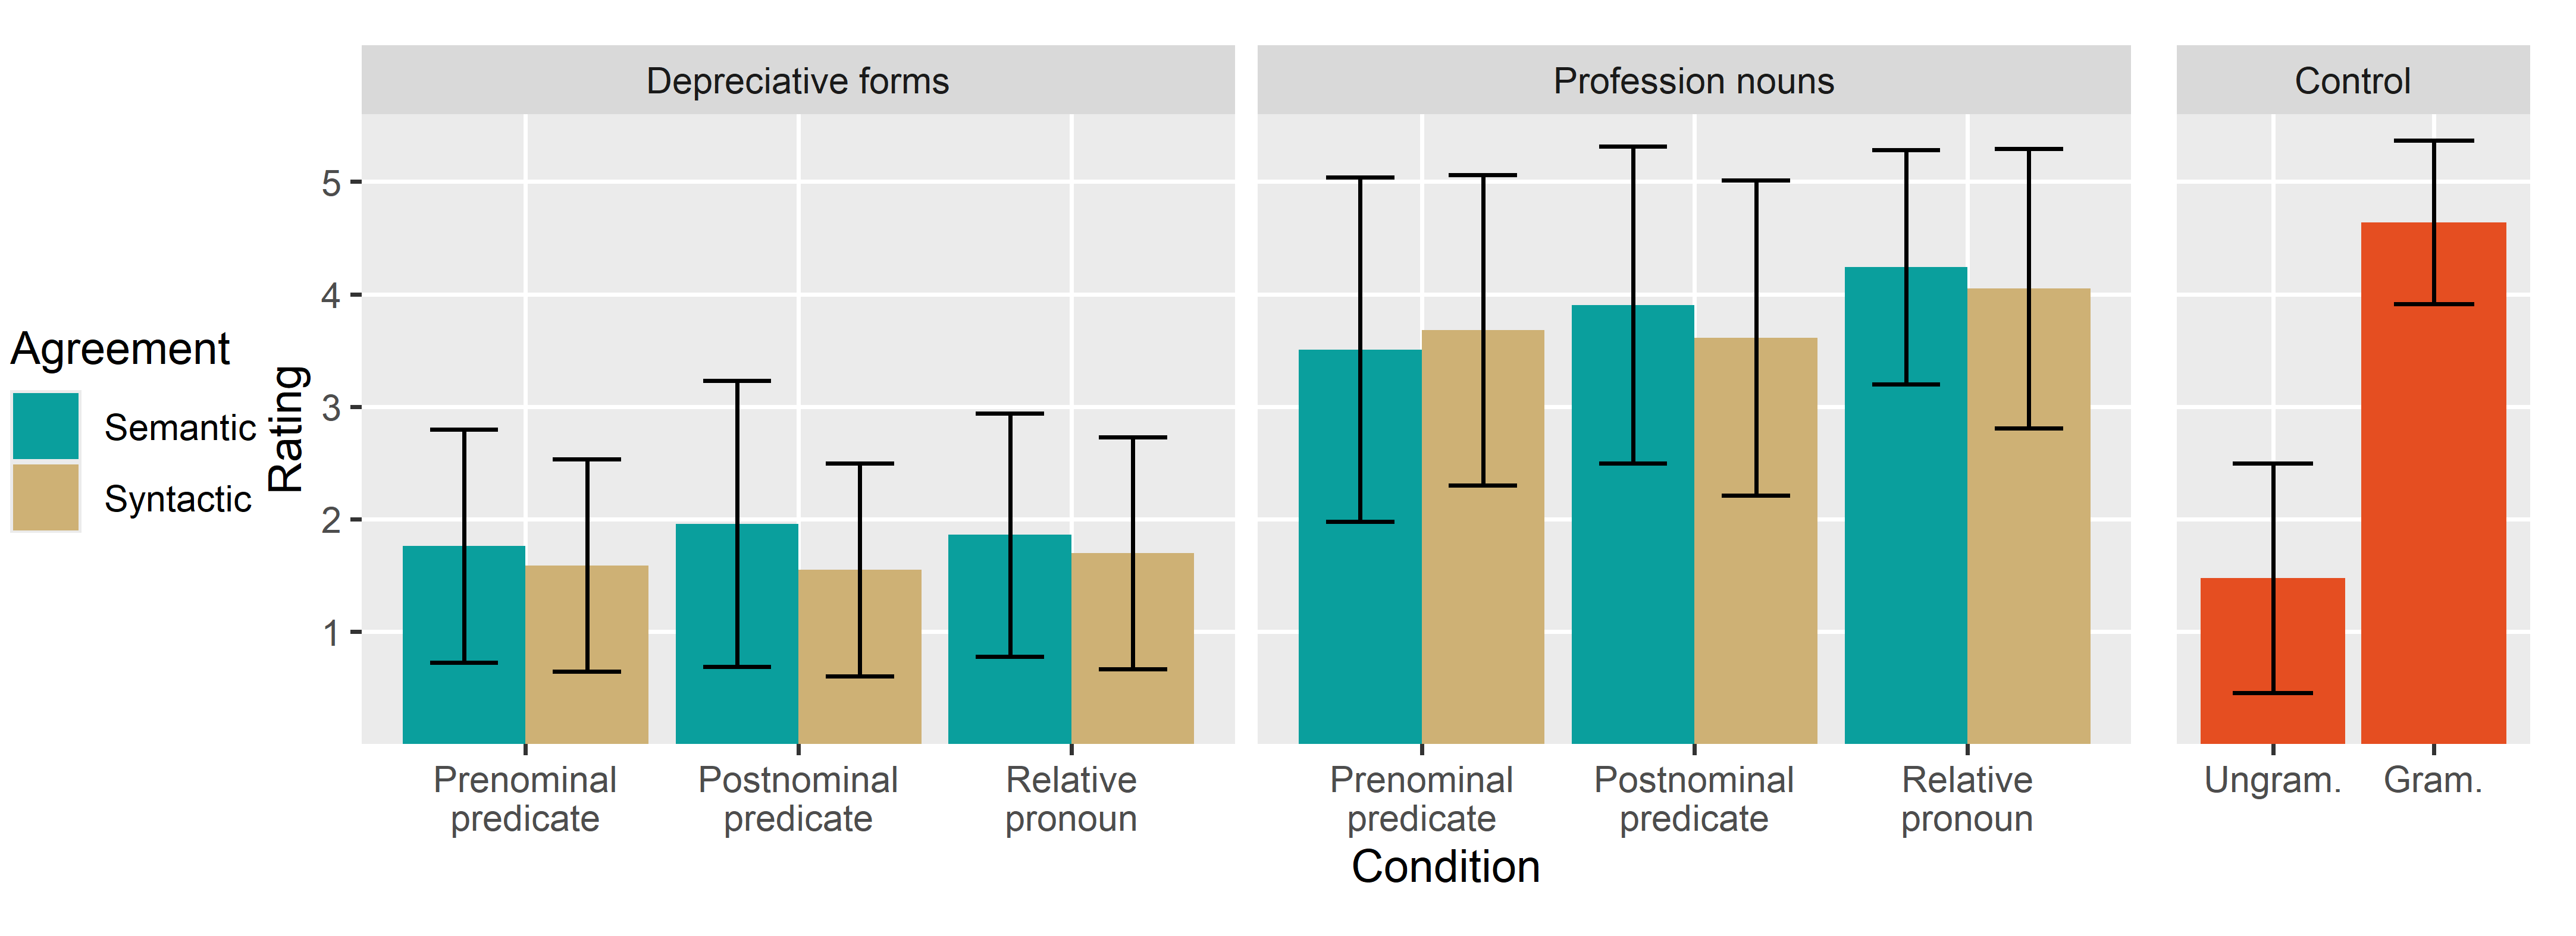
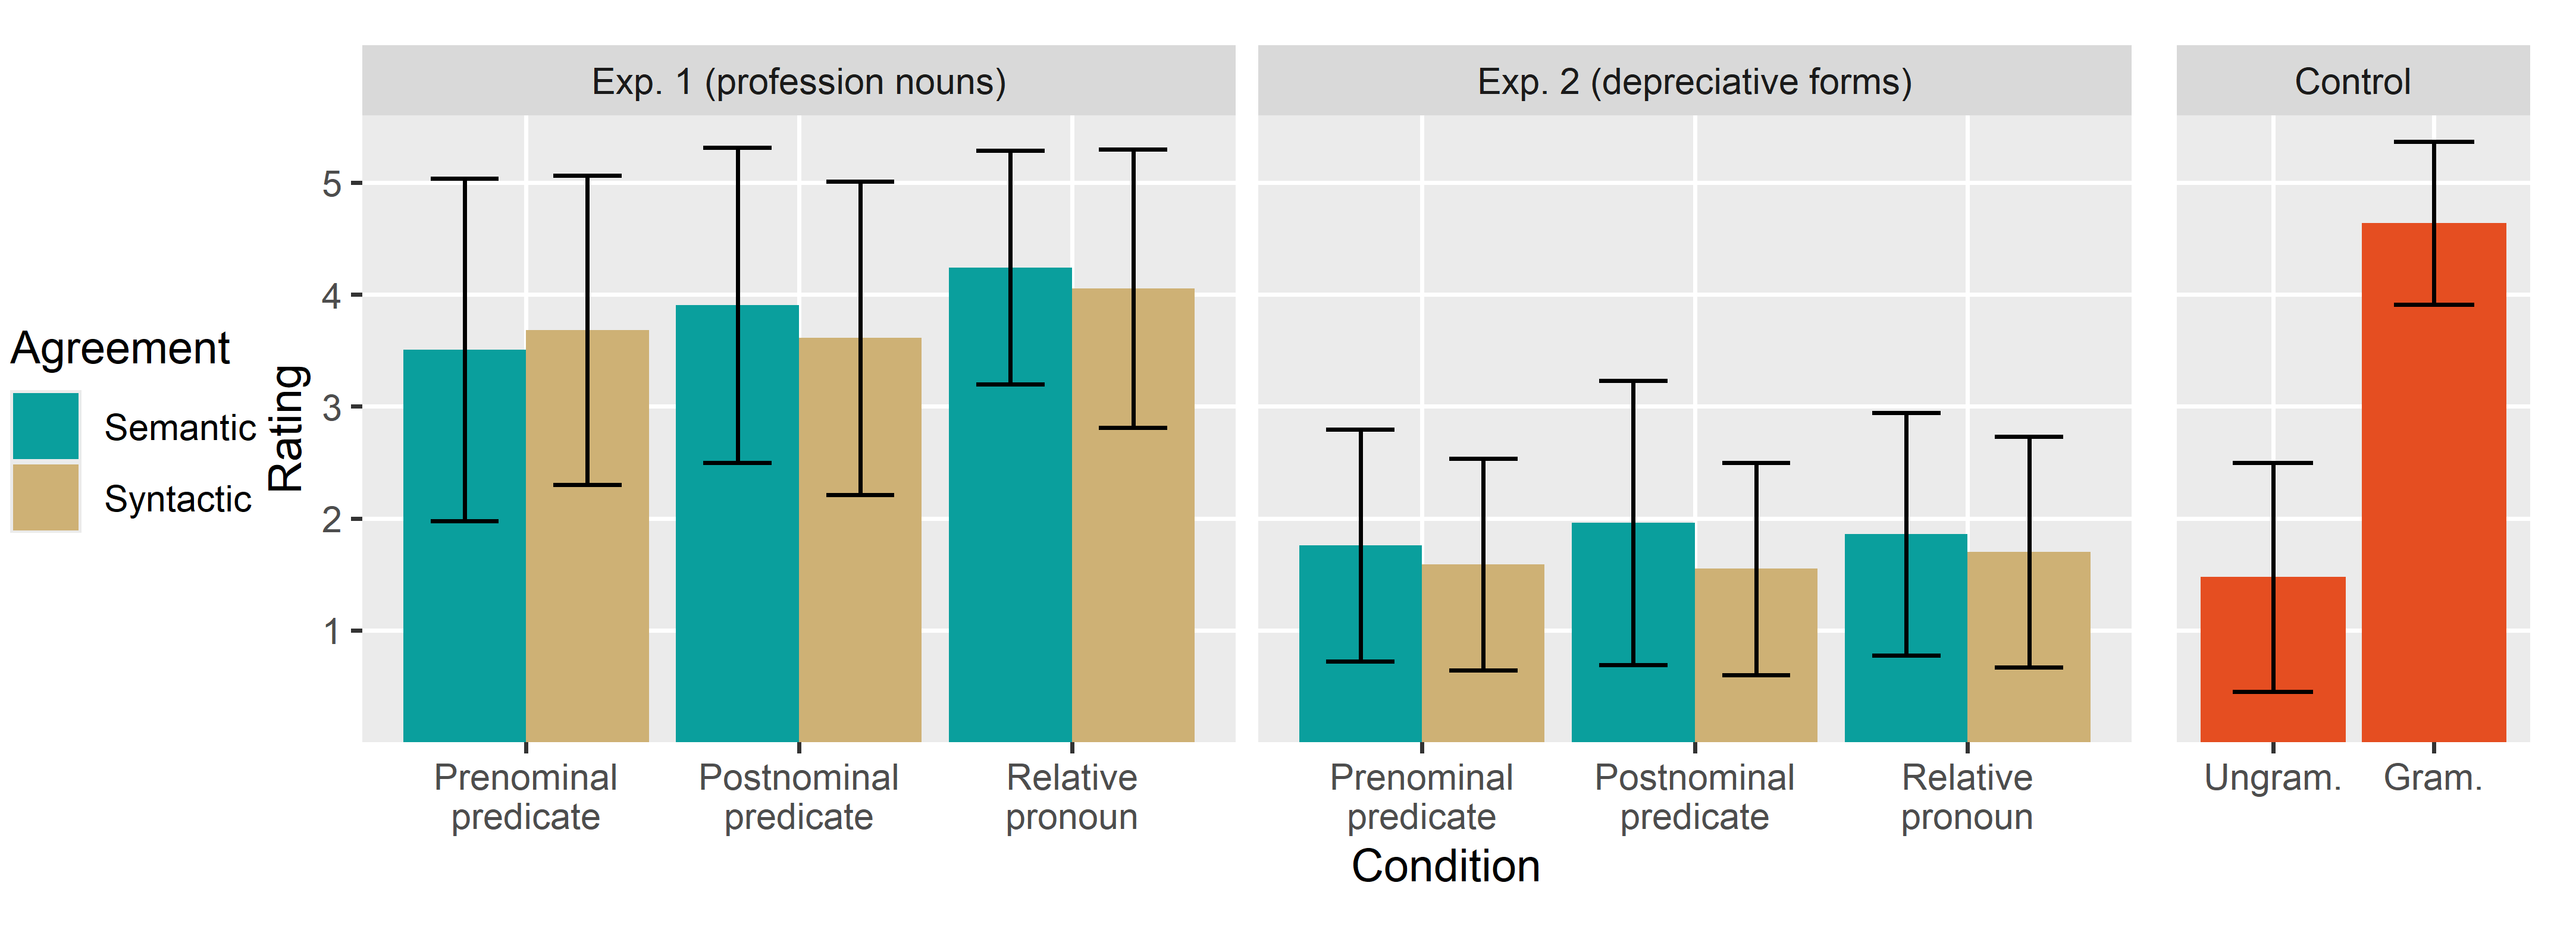
changes in appendices, wrote some more of the exp part, added a plot

diff --git a/writing/M2/Chapters/01_3_experimental_study.tex b/writing/M2/Chapters/01_3_experimental_study.tex
@@ -42,7 +42,7 @@ Additionally, there were two nouns that did not occur in the norming study: \mea
 
 As \cite{skowronska_konstrukcje_2011} reports, the latter of the two additional nouns is problematic for Polish speakers. In a section dedicated specifically to the lexeme `chłopak' she reports that some Polish speakers are taught that the non-depreciative form of the noun is incorrect. Because of this, hybrid agreement is very commonly used with this particular noun. The author also looked through the National Corpus of Polish to see a few examples of the noun with attributive and predicate agreement and she finds that predicates with this noun are mostly seen with semantic agreement, while attributes occur almost exclusively with syntactic agreement. This is in line with Corbett's predictions and the current study can show whether this tendency extends to the further points of the Agreement Hierarchy.
 
-All of the nouns chosen for this experiment can be found in the appendix. In (\ref{ex:depr-item}) there is an example of an experimental item with one of the nouns in depreciative form. 
+All of the nouns chosen for this experiment can be found in the Appendix (Table ?). In (\ref{ex:depr-item}) there is an example of an experimental item with one of the nouns in depreciative form. 
 
 \begin{exe}
   \ex\label{ex:depr-item} Example of an item in the experiment with depreciative forms in all conditions and with its comprehension question.
@@ -76,7 +76,7 @@ The process of selecting nouns for this experiment was similar to that for the c
 \item words with less than a 1000 occurrences in the balanced version of the National Corpus of Polish (with prose excluded to make sure the words are used in everyday language)
 \end{itemize}
 
-Here each experimental item also required a sentence of context preceding the target sentence. The nouns used in this experiments are masculine and can refer to both men and women, so context is needed for participants to know that in this situation the noun refers to a woman. All of the items for this experiment can be found in the appendix and an example of an item can be found in (\ref{ex:prof-item}).
+Here each experimental item also required a sentence of context preceding the target sentence. The nouns used in this experiments are masculine and can refer to both men and women, so context is needed for participants to know that in this situation the noun refers to a woman. All of the items for this experiment can be found in the Appendix (Table ?) and an example of an item can be found in (\ref{ex:prof-item}).
 
 \begin{exe}
   \ex\label{ex:prof-item} Example of an item in the experiment with profession nouns in all conditions, with its context and the comprehension question.
@@ -148,33 +148,23 @@ Based on the corpus study, one hypothesis is that syntactic agreement is preferr
 Additionally, according to the stronger constraint of Corbett's Agreement Hierarchy, the acceptability of semantic agreement should increase as we go rightwards along the hierarchy. Here this means that semantic predicate agreement has a lower average acceptability rating than semantic relative pronoun agreement. Another hypothesis concerns the Hierarchy of Agreement Sources, based on which semantic agreement with split hybrids is less acceptable than with lexical hybrids. For this study the split hybrids are depreciative forms and lexical hybrids are profession nouns, therefore semantic agreement in the the profession nouns experiment should have an overall higher acceptability than semantic agreement in the depreciatives experiment. Finally, according to Corbett the target of agreement preceding the controller decreases the likelihood of semantic agreement, so in the experiments the prenominal condition should have a lower acceptability than the postnomial condition.
 
 \section{Results}
-There were 30 participants invited to participate in each study. Experiment 1 (with profession nouns) had 19 men and 11 women, Experiment 2 (with depreciative forms) had 25 men and 5 women. Participants were aged 18 to 55. Out of them, one responded that he was raised in England and Poland, three reported to speak both Polish and English as their first languages. These participants were excluded from analysis, to make sure the judgements were those of monolingual Polish speakers. All participants responded correctly to comprehension questions over 80\% of the time and all of them rated the ungrammatical control questions below the grammatical ones, therefore none of them were excluded based on those criteria. There were, however, two participants in Experiment 2 that rated all experimental items as completely unacceptable. This was presumably because the depreciative forms are highly colloquial and some speakers find those forms to be ungrammatical. Those judgements were therefore not informative for the purposes of this study and responses from those two speakers were excluded. Table ? shows the final number of participants for each gender, age group and experiment.
+There were 30 participants invited to participate in each study. Experiment 1 (with profession nouns) had 19 men and 11 women, Experiment 2 (with depreciative forms) had 25 men and 5 women. Participants were aged 18 to 55. Out of them, one responded that he was raised in England and Poland, three reported to speak both Polish and English as their first languages. These participants were excluded from analysis, to make sure the judgements were those of monolingual Polish speakers. All participants responded correctly to comprehension questions over 80\% of the time and all of them rated the ungrammatical control questions below the grammatical ones, therefore none of them were excluded based on those criteria. There were, however, two participants in Experiment 2 that rated all experimental items as completely unacceptable. This was presumably because the depreciative forms are highly colloquial and some speakers find those forms to be ungrammatical. Those judgements were therefore not informative for the purposes of this study and responses from those two speakers were excluded. Table \ref{tab:exp-participants} shows the final number of participants for each gender, age group and experiment.
 
-% latex table generated in R 4.5.2 by xtable 1.8-8 package
-% Sat May 30 13:45:02 2026
-\begin{table}[ht]
-\centering
-\begin{tblr}{rlrrr}
-  \hline
- & gender & 18-30 & 31-50 & 51+ \\ 
-  \hline
-1 & f &   6 &   3 &   1 \\ 
-  2 & m &  15 &   4 &  \\ 
-   \hline
-\end{tblr}
-\end{table}
-% latex table generated in R 4.5.2 by xtable 1.8-8 package
-% Sat May 30 13:45:02 2026
-\begin{table}[ht]
-\centering
-\begin{tblr}{rlrrr}
-  \hline
- & gender & 18-30 & 31-50 & 51+ \\ 
-  \hline
-1 & f &   2 &   2 &  \\ 
-  2 & m &  15 &   5 &   1 \\ 
-   \hline
-\end{tblr}
+\begin{table}[h]
+  \centering
+  \begin{tblr}{
+    vlines,hlines,
+    cell{1}{2} = {c=3}{c},
+    cell{1}{5} = {c=3}{c},
+    cell{1}{1} = {r=2}{c}
+    }
+    & Experiment 1 & & & Experiment 2 & & \\
+    & 18-30 & 31-50 & 51+ & 18-30 & 31-50 & 51+ \\
+    Women &   6 &   3 &   1 &   2 &   2 & 0 \\ 
+    Men &  15 &   4 & 0 & 15 &   5 &   1\\
+  \end{tblr}
+  \caption{Numbers of participants in each age and gender group in each experiment.}
+  \label{tab:exp-participants}
 \end{table}
 
 The results of both experiments with the control conditions for comparison can be found in Figure \ref{fig:exp-main}. 
@@ -186,7 +176,20 @@ The results of both experiments with the control conditions for comparison can b
   \label{fig:exp-main}
 \end{figure}
 
-We analyzed these results with a mixed-effects ordinal regression model using the clmm() function from the ordinal R package. In this model the fixed effects were the noun type (profession noun or depreciative form), agreement (semantic or syntactic), order of target and controller and the type of target (predicate or relative pronoun). The model also included interactions between the noun type and agreement and all other variables. The random effects were for participants, items, order in which items were presented, age and group from the latin square design. The full list of coefficients from this model can be found in Appendix ?.
+First of all, we can see that none of the experimental conditions were on average rated lower than ungrammatical controls, although the items with depreciative forms in Experiment 2 come close to that. We hypothesised that semantic agreement will be less acceptable with depreciative forms (which are split hybrids) than with profession nouns (which are lexical hybrids). While there is a difference between the two types of nouns used, it does not depend on agreement -- items with depreciative forms received overall lower ratings than items with profession nouns. There are also differences between ratings of semantic and syntactic agreement in each condition. We can have a closer look at those differences in Figure \ref{fig:exp-diffs}.
+
+\begin{figure}[h]
+  \centering
+  \includegraphics[scale=.8]{./images/expdiffsplot.png}
+  \caption{Differences between average ratings of semantic and syntactic agreement in both experiments and in all conditions. Positive values mean that semantic agreement was rated higher than syntactic.}
+  \label{fig:exp-diffs}
+\end{figure}
+
+Based on the simple constraint of the Agreement Hierarchy \citep{corbett_agreement_2023} there should be a monotonic change of preference from one value to another. This means that, for instance, syntactic agreement is clearly preferred for attributes, predicate agreement can have both syntactic and semantic agreement and relative pronouns mostly have semantic agreement. In this situation the difference in acceptability of semantic and syntactic agreement for attributes is larger, for predicates smaller, and for relative pronouns larger again (only in a different direction than for attributes). Additionally, there is the full constraint which states that as we go from attributes towards pronouns, that monotonic change of preference should mean an increase in acceptability of semantic agreement (exactly as in the described example).
+
+Here, we can not actually check the monotonicity of change in preference, since only two possible targets from the Agreement Hierarchy were included in the study, but we can check if the differences between preferences for semantic agreement change as expected. Looking at differences for postnominal predicates (which are more canonical than prenominal) and relative pronouns in Figure \ref{fig:exp-diffs} we can see that in both experiments semantic agreement is preferred, because the differences are positive. However, the differences are larger for postnominal predicates than for relative pronouns, which can give us suggestions about the monotonicity of change of preference for one agreement option or the other.
+
+We analyzed the results from both experiments with a mixed-effects ordinal regression model using the clmm() function from the ordinal R package \citep{ordinal}. In this model the fixed effects were the noun type (profession noun or depreciative form), agreement (semantic or syntactic), order of target and controller and the type of target (predicate or relative pronoun). The model also included interactions between the noun type and agreement and all other variables. The random effects were for participants, items, order in which items were presented, age and group from the latin square design. The full list of coefficients from this model can be found in Appendix (Table \ref{tab:coef-exp-both}).
 
 The only significant effect in this model was the effect of noun: items with profession nouns had significantly higher ratings than items with depreciative forms (p<0.001). The following subsections will describe the analyses for the two experiments separately.
 
@@ -226,11 +229,11 @@ In Figure \ref{fig:prof-demo-plot} we can see the differences in acceptability d
 
 In the plot we can see that women in the youngest group have very similar ratings for all conditions with a slight preference towards syntactic agreement, while the middle group always prefers semantic agreement (it should be noted that the 51+ group here consists of only one person). For men, syntactic prenominal predicate agreement is either the same or better than semantic, while for other conditions they prefer semantic agreement. This is in line with Corbett's prediction that target before controller is more likely to be syntactic.
 
-Results from this experiment were also anaylzed with a mixed-effects ordinal regression model, with agreement crossed with order and target type as predictors of acceptability rating and the same random effects as in the general model. 
-
-The list of coefficients from this model can be found in Appendix ?.
+Results from this experiment were also anaylzed with a mixed-effects ordinal regression model, with agreement crossed with order and target type as predictors of acceptability rating and the same random effects as in the general model. The only significant effect in the model was the type of target: items with relative pronouns had significantly higher acceptability ratings than items with the predicates. However, the interaction between semantic agreement and the type of target was not significant. The list of coefficients from this model can be found in the Appendix (Table \ref{tab:coef-exp-prof}).
 
 \subsection{Experiment 2}
+In Experiment 2 the stimuli had depreciative forms. Table \ref{tab:exp-depr-summary} summarizes the results of this experiment.
+
 % latex table generated in R 4.5.2 by xtable 1.8-8 package
 % Sat May 30 20:32:22 2026
 \begin{table}[h]
@@ -242,14 +245,18 @@ The list of coefficients from this model can be found in Appendix ?.
     cell{1}{4} = {c=2}{c},
     cell{1}{6} = {c=2}{c}
     }
-    Agreement & Postnominal predicate & & Prenominal predicate & & Relative pronoun & \\
+    Agreement & Prenominal predicate & & Postnominal predicate & & Relative pronoun & \\
               & Mean & SD & Mean & SD & Mean & SD \\ 
-    Semantic & 1.96 & 1.27 & 1.76 & 1.04 & 1.86 & 1.08 \\ 
-    Syntactic & 1.55 & 0.95 & 1.59 & 0.94 & 1.70 & 1.03 \\ 
+    Semantic & 1.76 & 1.04 & 1.96 & 1.27 & 1.86 & 1.08 \\ 
+    Syntactic & 1.59 & 0.94 & 1.55 & 0.95 & 1.70 & 1.03 \\ 
   \end{tblr}
   \caption{Means and standard deviations for acceptability ratings in all conditions in Experiment 1.}
-  \label{tab:exp-prof-summary}
+  \label{tab:exp-depr-summary}
 \end{table}
+
+Ratings in Experiment 2 are visibily lower than in Experiment 1, but they never go below the average rating for ungrammatical controls. With prenominal predicates semantic agreement is surprisingly rated higher than syntactic. Somewhat in line with the hypothesis about target-controller ordering, the preference for semantic agreement over syntactic grows when we move to postnominal predicate condition, where the controller is placed before the target. In contrast to the results from Experiment 1, there is no increase in acceptability of the items with relative pronouns.
+
+Same as for Experiment 1, in Figure \ref{fig:depr-demo-plot} we can see the average ratings depending on the conditions, age group and gender of the participants.
 
 \begin{figure}[h]
   \centering
@@ -258,110 +265,17 @@ The list of coefficients from this model can be found in Appendix ?.
   \label{fig:depr-demo-plot}
 \end{figure}
 
-% GENERAL MODEL
-% Cumulative Link Mixed Model fitted with the Laplace approximation
+For relative pronouns women in both age groups there is a small preference for syntactic agreement, but for predicates semantic agreement is always rated higher. Men mostly prefer semantic agreement across age groups and conditions, with the exception of relative pronouns for men aged 31-50, where syntactic agreement is slightly more preferred (again, it should be noted that the oldest group consists of only one person here).
 
-% formula: rating ~ noun * agreement * (order + target_type + (1 | id) +  
-%     (1 | item) + (1 | trial_index) + (1 | age) + (1 | group))
-% data:    .
+We analyzed the data from this experiment with the same mixed-effects ordinal regression model as in the previous section. There were the same fixed effects (agreement, order and target type) and the same random effects. In this model there were no significant effects, neither main effects nor interactions. The list of coefficients for this model is in the Appendix (Table \ref{tab:coef-exp-depr}).
 
+\section{Discussion}
+The only significant effect found in the model with all nouns was that items with depreciative forms were rated significantly lower than items with profession nouns. According to one of the hypotheses, semantic agreement with split hybrids is less acceptable than with lexical hybrids, but here the lower ratings for depreciative forms were independent of agreement: both items with semantic and syntactic agreement were rated as close to unacceptable if they used a depreciative form. There was no significant effect of interaction between agreement and type of noun.
 
-% Random effects:
-%  Groups      Name        Variance  Std.Dev. 
-%  trial_index (Intercept) 8.026e-02 2.833e-01
-%  id          (Intercept) 1.023e+00 1.011e+00
-%  item        (Intercept) 6.151e-01 7.843e-01
-%  group       (Intercept) 5.074e-10 2.253e-05
-%  age         (Intercept) 0.000e+00 0.000e+00
-% Number of groups:  trial_index 60,  id 54,  item 45,  group 6,  age 3 
+Responses from two participants were filtered out because they rated all depreciative items as completely unacceptable. It seems that those participants thought the depreciative forms are unacceptable themselves and it is possible that this was the case to some extent with most of participants. Depreciative forms are a part of colloquial language and participants could feel that in the experimental settings those forms sound unnatural.
 
-% Coefficients:
-%                                                 Estimate Std. Error z value Pr(>|z|)    
-% nounprof                                          3.7672     0.4546   8.287   <2e-16 ***
-% agreementsemantic                                 0.5275     0.3156   1.671   0.0946 .  
-% orderControllerFirst                             -0.1432     0.3301  -0.434   0.6644    
-% target_typeRelPron                                0.5353     0.3190   1.678   0.0933 .  
-% nounprof:agreementsemantic                       -0.6341     0.4105  -1.545   0.1224    
-% nounprof:orderControllerFirst                     0.1067     0.4231   0.252   0.8009    
-% nounprof:target_typeRelPron                       0.1422     0.4161   0.342   0.7326    
-% agreementsemantic:orderControllerFirst            0.3750     0.4478   0.837   0.4023    
-% agreementsemantic:target_typeRelPron             -0.7160     0.4327  -1.655   0.0980 .  
-% nounprof:agreementsemantic:orderControllerFirst   0.2532     0.5841   0.433   0.6647    
-% nounprof:agreementsemantic:target_typeRelPron     0.4616     0.5768   0.800   0.4235    
-% ---
-% Signif. codes:  0 ‘***’ 0.001 ‘**’ 0.01 ‘*’ 0.05 ‘.’ 0.1 ‘ ’ 1
+Based solely on descriptive statistics, in the results from Experiment 1 there seem to be some tendencies in the data in line with our hypotheses. On average semantic agreement is more acceptable with postnominal predicates than with prenominal predicates and target following the controller should make semantic agreement more acceptable, but the interaction between agreement and order was not significant. The items with relative pronouns have higher acceptability than items with predicates, and this difference was statistically significant but it was independent of agreement. Since the model showed no significant interaction between agreement and type of target, no conclusions can be drawn regarding acceptability of semantic agreement being higher for relative pronouns than for predicates, as was would be concurrent with the full constraint of the Agreement Hierarchy.
 
-% Threshold coefficients:
-%     Estimate Std. Error z value
-% 1|2   0.8873     0.3448   2.573
-% 2|3   2.4190     0.3546   6.821
-% 3|4   3.0815     0.3595   8.572
-% 4|5   4.3802     0.3698  11.843
+As for depreciative forms, semantic agreement had higher average ratings than syntactic agreement regardless of the condition. Semantic agreement is expected to be less acceptable in general with split hybrids, yet both in the corpus study and in the experimental study was surprisingly acceptable. It is possible that in the experiment, when participants were faced with sentences with ``incorrect'' forms of nouns, they preferred the version of the sentence with agreement that would be used with the ``correct'' form of noun. Even if there were some differences between acceptability in different conditions, none of them were statistically significant.
 
-% PROF MODEL
-% Cumulative Link Mixed Model fitted with the Laplace approximation
-
-% formula: rating ~ agreement * (order + target_type + (1 | id) + (1 | item) +  
-%     (1 | trial_index) + (1 | age) + (1 | group))
-% data:    .
-
-
-% Random effects:
-%  Groups      Name        Variance Std.Dev.
-%  trial_index (Intercept) 0.04385  0.2094  
-%  id          (Intercept) 0.62532  0.7908  
-%  item        (Intercept) 0.47543  0.6895  
-%  group       (Intercept) 0.00000  0.0000  
-%  age         (Intercept) 0.00000  0.0000  
-% Number of groups:  trial_index 60,  id 29,  item 24,  group 6,  age 3 
-
-% Coefficients:
-%                                        Estimate Std. Error z value Pr(>|z|)  
-% agreementsemantic                      -0.09523    0.25584  -0.372   0.7097  
-% orderControllerFirst                   -0.03820    0.25593  -0.149   0.8814  
-% target_typeRelPron                      0.63759    0.25970   2.455   0.0141 *
-% agreementsemantic:orderControllerFirst  0.60186    0.36529   1.648   0.0994 .
-% agreementsemantic:target_typeRelPron   -0.25598    0.37176  -0.689   0.4911  
-% ---
-% Signif. codes:  0 ‘***’ 0.001 ‘**’ 0.01 ‘*’ 0.05 ‘.’ 0.1 ‘ ’ 1
-
-% Threshold coefficients:
-%     Estimate Std. Error z value
-% 1|2  -2.4763     0.3027  -8.181
-% 2|3  -1.2517     0.2828  -4.425
-% 3|4  -0.7100     0.2791  -2.543
-% 4|5   0.5538     0.2788   1.986
-
-% DEPR MODEL
-% Cumulative Link Mixed Model fitted with the Laplace approximation
-
-% formula: rating ~ agreement * (order + target_type + (1 | id) + (1 | item) +  
-%     (1 | trial_index) + (1 | age) + (1 | group))
-% data:    .
-
-
-% Random effects:
-%  Groups      Name        Variance Std.Dev.
-%  trial_index (Intercept) 0.01776  0.1333  
-%  id          (Intercept) 1.12671  1.0615  
-%  item        (Intercept) 0.80517  0.8973  
-%  group       (Intercept) 0.66676  0.8166  
-%  age         (Intercept) 0.00000  0.0000  
-% Number of groups:  trial_index 60,  id 25,  item 24,  group 6,  age 3 
-
-% Coefficients:
-%                                        Estimate Std. Error z value Pr(>|z|)  
-% agreementsemantic                        0.5545     0.3259   1.701   0.0889 .
-% orderControllerFirst                    -0.1881     0.3399  -0.554   0.5799  
-% target_typeRelPron                       0.6164     0.3289   1.874   0.0610 .
-% agreementsemantic:orderControllerFirst   0.4655     0.4652   1.001   0.3170  
-% agreementsemantic:target_typeRelPron    -0.8465     0.4512  -1.876   0.0606 .
-% ---
-% Signif. codes:  0 ‘***’ 0.001 ‘**’ 0.01 ‘*’ 0.05 ‘.’ 0.1 ‘ ’ 1
-
-% Threshold coefficients:
-%     Estimate Std. Error z value
-% 1|2   0.7683     0.5074   1.514
-% 2|3   2.5486     0.5226   4.877
-% 3|4   3.4458     0.5358   6.431
-% 4|5   4.8817     0.5801   8.415
+The interesting part of the interaction between the demographic profile of participants and the acceptability ratings in all conditions is the change in preferences between youngest women and 

diff --git a/writing/M2/Chapters/02_Annexes.tex b/writing/M2/Chapters/02_Annexes.tex
@@ -3,7 +3,7 @@
 \chapter*{Appendices}\label{chap:Appendices}
 \addcontentsline{toc}{chapter}{Appendices}
 
-\section*{Coefficients from statistical modeling of the corpus data}\label{apsec:corpus-coefs}
+\section*{Coefficients from statistical modeling of the corpus data}
 \begin{table}[H]
   \centering
   \begin{tblr}
@@ -78,4 +78,66 @@
   \caption{Coefficients of the mixed effects logistic regression model using occurrences with depreciative forms from the corpus study.\\
     Signif. codes:  0 ‘***’ 0.001 ‘**’ 0.01 ‘*’ 0.05 ‘.’ 0.1 ‘ ’ 1.}
   \label{tab:coef-depr}
+\end{table}
+
+\section*{Coefficients from statistical modeling of the experimental data}
+
+\begin{table}[H]
+  \centering
+  \begin{tblr}
+    {vlines, hlines,
+    row{1} = {gray8},
+    column{1} = {gray8}}
+    & Estimate & Std. error & Z value & Pr(>|z|) \\
+    Profession noun & 3.7672 & 0.4546 & 8.287 & <2e-16 ***\\
+    Semantic & 0.5275 & 0.3156 & 1.671 & 0.0946 .\\
+    Controller first & -0.1432 & 0.3301 & -0.434 & 0.6644\\
+    Relative pronoun & 0.5353 & 0.3190 & 1.678 & 0.0933 .\\
+    Profession noun:Semantic & -0.6341 & 0.4105 & -1.545 & 0.1224\\
+    Profession noun:Controller first & 0.1067 & 0.4231 & 0.252 & 0.8009\\
+    Profession noun:Relative pronoun & 0.1422 & 0.4161 & 0.342 & 0.7326\\
+    Semantic:Controller first & 0.3750 & 0.4478 & 0.837 & 0.4023\\
+    Semantic:Relative pronoun & -0.7160 & 0.4327 & -1.655 & 0.0980 .\\
+    Profession noun:Semantic:Controller first & 0.2532 & 0.5841 & 0.433 & 0.6647\\
+    Profession noun:Semantic:Relative pronoun & 0.4616 & 0.5768 & 0.800 & 0.4235\\
+  \end{tblr}
+  \caption{Coefficients of the mixed effects ordinal regression model using data from both experiments.\\
+    Signif. codes:  0 ‘***’ 0.001 ‘**’ 0.01 ‘*’ 0.05 ‘.’ 0.1 ‘ ’ 1.}
+  \label{tab:coef-exp-both}
+\end{table}
+
+\begin{table}[H]
+  \centering
+  \begin{tblr}
+    {vlines, hlines,
+    row{1} = {gray8},
+    column{1} = {gray8}}
+    & Estimate & Std. error & Z value & Pr(>|z|) \\
+    Semantic & -0.09523 & 0.25584 & -0.372 & 0.7097\\
+    Controller first & -0.03820 & 0.25593 & -0.149 & 0.8814\\
+    Relative pronoun & 0.63759 & 0.25970 & 2.455 & 0.0141 *\\
+    Semantic:Controller first & 0.60186 & 0.36529 & 1.648 & 0.0994 .\\
+    Semantic:Relative pronoun & -0.25598 & 0.37176 & -0.689 & 0.4911\\
+  \end{tblr}
+  \caption{Coefficients of the mixed effects ordinal regression model using data from Experiment 1.\\
+    Signif. codes:  0 ‘***’ 0.001 ‘**’ 0.01 ‘*’ 0.05 ‘.’ 0.1 ‘ ’ 1.}
+  \label{tab:coef-exp-prof}
+\end{table}
+
+\begin{table}[H]
+  \centering
+  \begin{tblr}
+    {vlines, hlines,
+    row{1} = {gray8},
+    column{1} = {gray8}}
+    & Estimate & Std. error & Z value & Pr(>|z|) \\
+    Semantic & 0.5545 & 0.3259 & 1.701 & 0.0889 .\\
+    Controller first & -0.1881 & 0.3399 & -0.554 & 0.5799\\
+    Relative pronoun & 0.6164 & 0.3289 & 1.874 & 0.0610 .\\
+    Semantic:Controller first & 0.4655 & 0.4652 & 1.001 & 0.3170\\
+    Semantic:Relative pronoun & -0.8465 & 0.4512 & -1.876 & 0.0606 .\\
+  \end{tblr}
+  \caption{Coefficients of the mixed effects ordinal regression model using data from Experiment 2.\\
+    Signif. codes:  0 ‘***’ 0.001 ‘**’ 0.01 ‘*’ 0.05 ‘.’ 0.1 ‘ ’ 1.}
+  \label{tab:coef-exp-depr}
 \end{table}

diff --git a/writing/M2/Chapters/01_2_corpus_study.tex b/writing/M2/Chapters/01_2_corpus_study.tex
@@ -320,7 +320,7 @@ After filtering the data which could not be used, there were 1722 observations, 
   \label{tab:corpus-summary}
 \end{table}
 
-For statistical modeling of the corpus data I used the \texttt{glmer} function from the \texttt{lme4} R package and the \texttt{glm} function from the \texttt{stats} package. I used binomial logistic regression, because the outcome was binary: whether semantic agreement was chosen or not. The first model used all of the 1722 observations. Fixed effects were the type of agreement target (attribute, predicate or relative pronoun), distance between the target and controller, target placement (preceding or following the controller), type of controller (gendered noun, profession noun or depreciative form) and apposition placement (preceding or following the controller). The corpus contains texts from 13 different types of sources -- this was included as the random effect in the model. The full list of coefficients in this and other models described in this chapter can be found in Appendix \ref{apsec:corpus-coefs}. 
+For statistical modeling of the corpus data I used the \texttt{glmer} function from the \texttt{lme4} R package and the \texttt{glm} function from the \texttt{stats} package. I used binomial logistic regression, because the outcome was binary: whether semantic agreement was chosen or not. The first model used all of the 1722 observations. Fixed effects were the type of agreement target (attribute, predicate or relative pronoun), distance between the target and controller, target placement (preceding or following the controller), type of controller (gendered noun, profession noun or depreciative form) and apposition placement (preceding or following the controller). The corpus contains texts from 13 different types of sources -- this was included as the random effect in the model. The full list of coefficients in this model can be found in the Appendix (Table \ref{tab:coef-all}). 
 
 Types of targets and the distance were not significant as predictors of semantic agreement. Target being placed after the controller increased the likelihood of semantic agreement (\textsl{p}<0.001), as well as placing an apposition before the controller (\textsl{p}<0.001). Among the noun types the depreciative forms were the baseline, because the hypothesis was that as split hybrids semantic agreement would be less likely to occurr with them than with the lexical hybrids: gendered and profession nouns. Compared to depreciative forms then, socially gendered nouns turned out to be less likely to have semantic agreement (\textsl{p}<0.001), while profession noun were more likely to have semantic agreement (\textsl{p}<0.001).
 
@@ -390,7 +390,7 @@ In the following examples we can see depreciative forms with all targets of agre
   \end{xlist}
 \end{exe}
 
-Binomial logistic regression using only the agreement occurrences with depreciative forms with the type of agreement target, distance and target placement as predictors has shown that only target placement had a significant effect on the outcome -- target following the controller increased the likelihood of semantic agreement (\textsl{p}<0.001).
+Binomial logistic regression using only the agreement occurrences with depreciative forms with the type of agreement target, distance and target placement as predictors has shown that only target placement had a significant effect on the outcome -- target following the controller increased the likelihood of semantic agreement (\textsl{p}<0.001). The full list of coefficients from this model is in the Appendix (Table \ref{tab:coef-depr}).
 
 \subsection{Socially gendered nouns}
 According to Corbett's Source Hierarchy, semantic agreement should be more acceptable with lexical hybrids than with split hybrids, which would mean that socially gendered nouns would have a higher percentage of semantic agreements than depreciative forms. As we can see in Table \ref{tab:gend-summary}, this is not reflected in the collected corpus data, where only 3.2\% of occurrences with gendered nouns have semantic agreement. Here the percentages of semantic agreement change monotonously from attributive to relative pronoun agreement, although it is the syntactic agreement that becomes more likely as we go along the Agreement Hierarchy. Considering this, the data from socially gendered nouns fits only the simple constraint of the Agreement Hierarchy \citep{corbett_agreement_2023}. 
@@ -447,7 +447,7 @@ The following examples come from the corpus and show which of the possible agree
   \end{xlist}
 \end{exe}
 
-Binomial logistic regression using only the agreement occurrences with socially gendered nouns with the type of agreement target, distance and target placement as predictors has shown that distance was the only significant predictor of semantic agreement: larger distance increased the likelihood of semantic agreement with gendered nouns (\textsl{p}<0.05).
+Binomial logistic regression using only the agreement occurrences with socially gendered nouns with the type of agreement target, distance and target placement as predictors has shown that distance was the only significant predictor of semantic agreement: larger distance increased the likelihood of semantic agreement with gendered nouns (\textsl{p}<0.05). The full list of coefficients from this model can be found in the Appendix (Table \ref{tab:coef-gend}).
 
 \subsection{Profession nouns}
 As we can see in Table \ref{tab:prof-summary}, there were 295 occurrences of agreement with profession nouns, 77.63\% of which had semantic agreement. This percentage is larger than for other types of nouns, however this is most likely because all of the profession noun occurrences included in the analysis appeared with feminine appositions, which increase the likelihood of semantic agreement. I will explore this more later when considering the order in which the apposition, controller and target appear in the sentences. With profession nouns it was more likely that semantic agreement would be used in attributes (78.54\% of all attributive agreement occurrences) and in relative pronouns (95.59\% of all relative pronoun agreement occurrences), but not in predicates (13.64\% of all predicate agreement occurrences). This, again, does not follow the simple constraint of the Agreement Hierarchy proposed by Corbett (2023), according to which there should be a monotonic change from attributive to relative pronoun agreement. 
@@ -515,7 +515,7 @@ It is possible that agreement with profession nouns is more likely to be semanti
 
 Three of the orders shown in the figure noticeably favor semantic agreement over syntactic: apposition-controller-target, apposition-target-controller and target-apposition-controller. In contrast to the other orders, for these the apposition appears before the controller. Since this seems to be the most important information coming from the order variable, for statistical modeling instead of accounting for the order  we will account for whether the apposition appears first (before the controller) or not.
 
-The binomial logistic regression performed on agreement occurrences with profession nouns used the type of agreement target, distance, target placement and apposition placement as predictors of semantic agreement. Distance and target placement were not significant in this model. Contrary to what the Agreement Hierarchy indicates, the odds of attributive agreement being semantic were approximately 16.16 times higher than the odds of predicate agreement being semantic (\textsl{p}<0.05). For relative pronouns the odds were 25.84 times higher than for predicates (\textsl{p}<0.05). There was also a significant effect of apposition placement -- the apposition appearing before the controller increased the likelihood of semantic agreement (\textsl{p}<0.001).
+The binomial logistic regression performed on agreement occurrences with profession nouns used the type of agreement target, distance, target placement and apposition placement as predictors of semantic agreement. Distance and target placement were not significant in this model. Contrary to what the Agreement Hierarchy indicates, the odds of attributive agreement being semantic were approximately 16.16 times higher than the odds of predicate agreement being semantic (\textsl{p}<0.05). For relative pronouns the odds were 25.84 times higher than for predicates (\textsl{p}<0.05). There was also a significant effect of apposition placement -- the apposition appearing before the controller increased the likelihood of semantic agreement (\textsl{p}<0.001). The full list of coefficients from this model is in the Appendix (Table \ref{tab:coef-prof}).
 
 Considering the effect of apposition placement on the choice of agreement, we can look at how the proportions of semantic agreement change if we assume that we should exclude occurrences with apposition first, because the speakers agree the gender of the target with the gender of apposition and not the semantic gender of the controller. Figure \ref{fig:NOAPP-semantic-in-targets} is identical to Figure \ref{fig:semantic-in-targets}, only with occurrences of profession nouns with appositions first excluded.
 